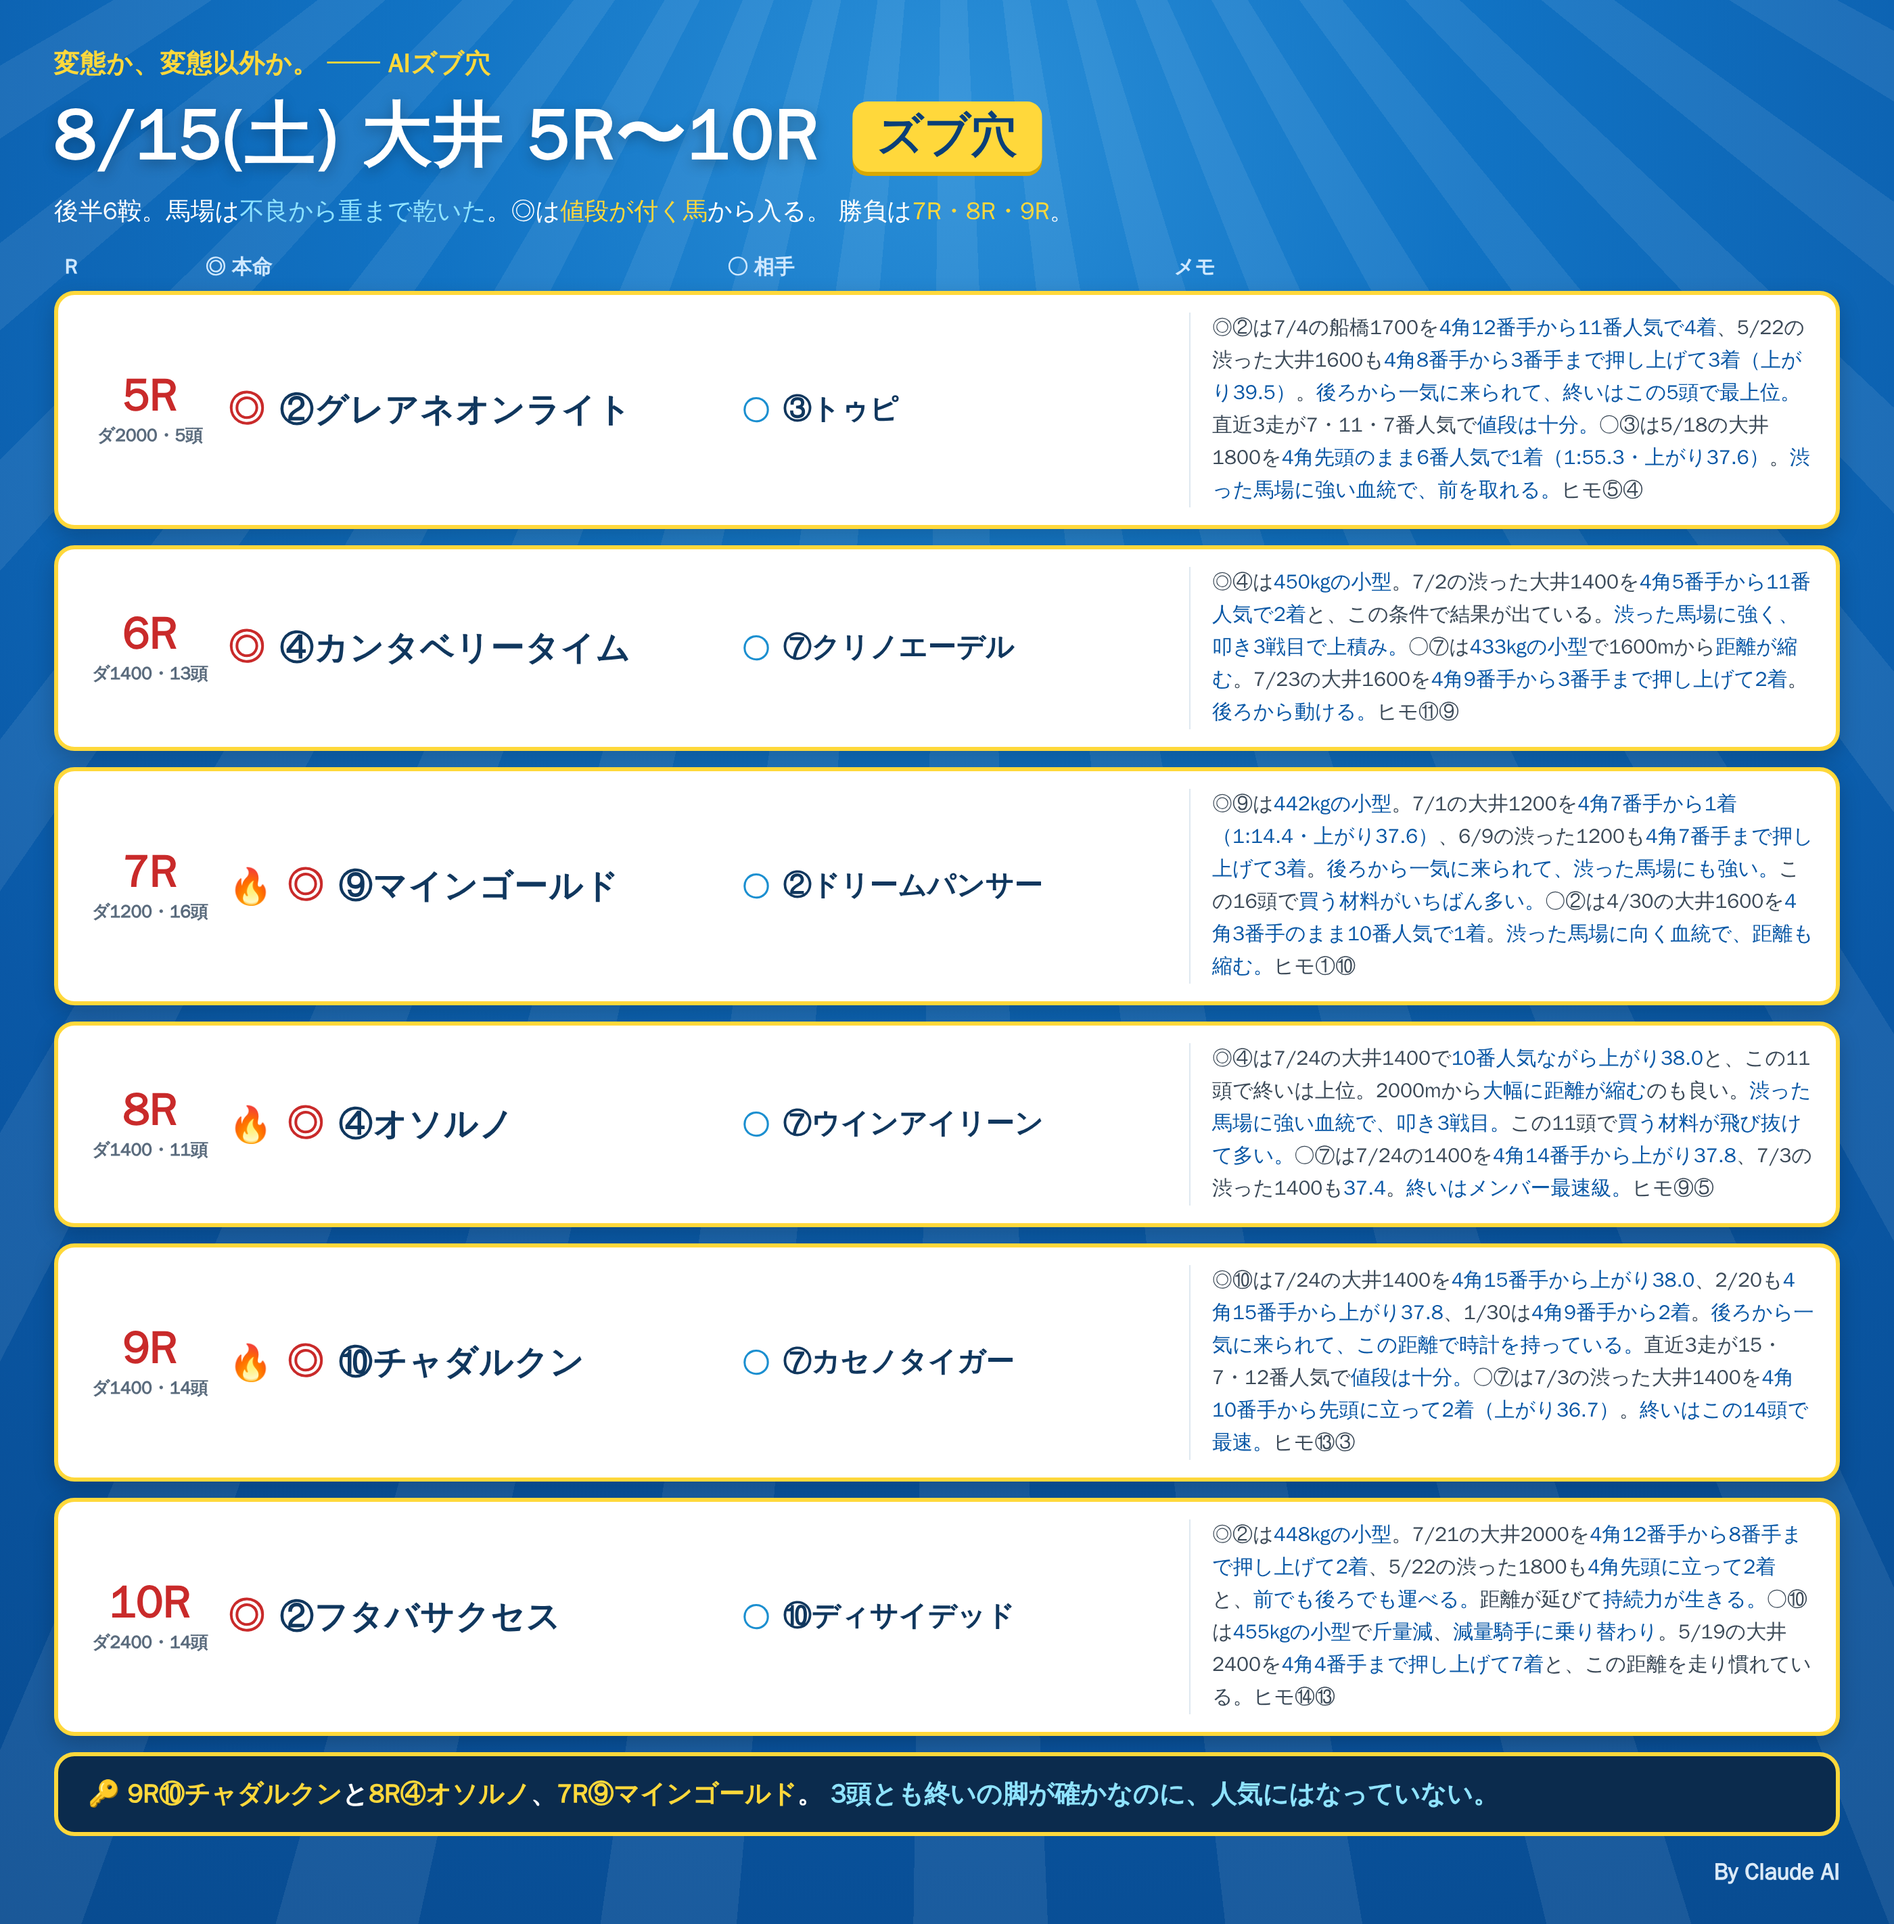
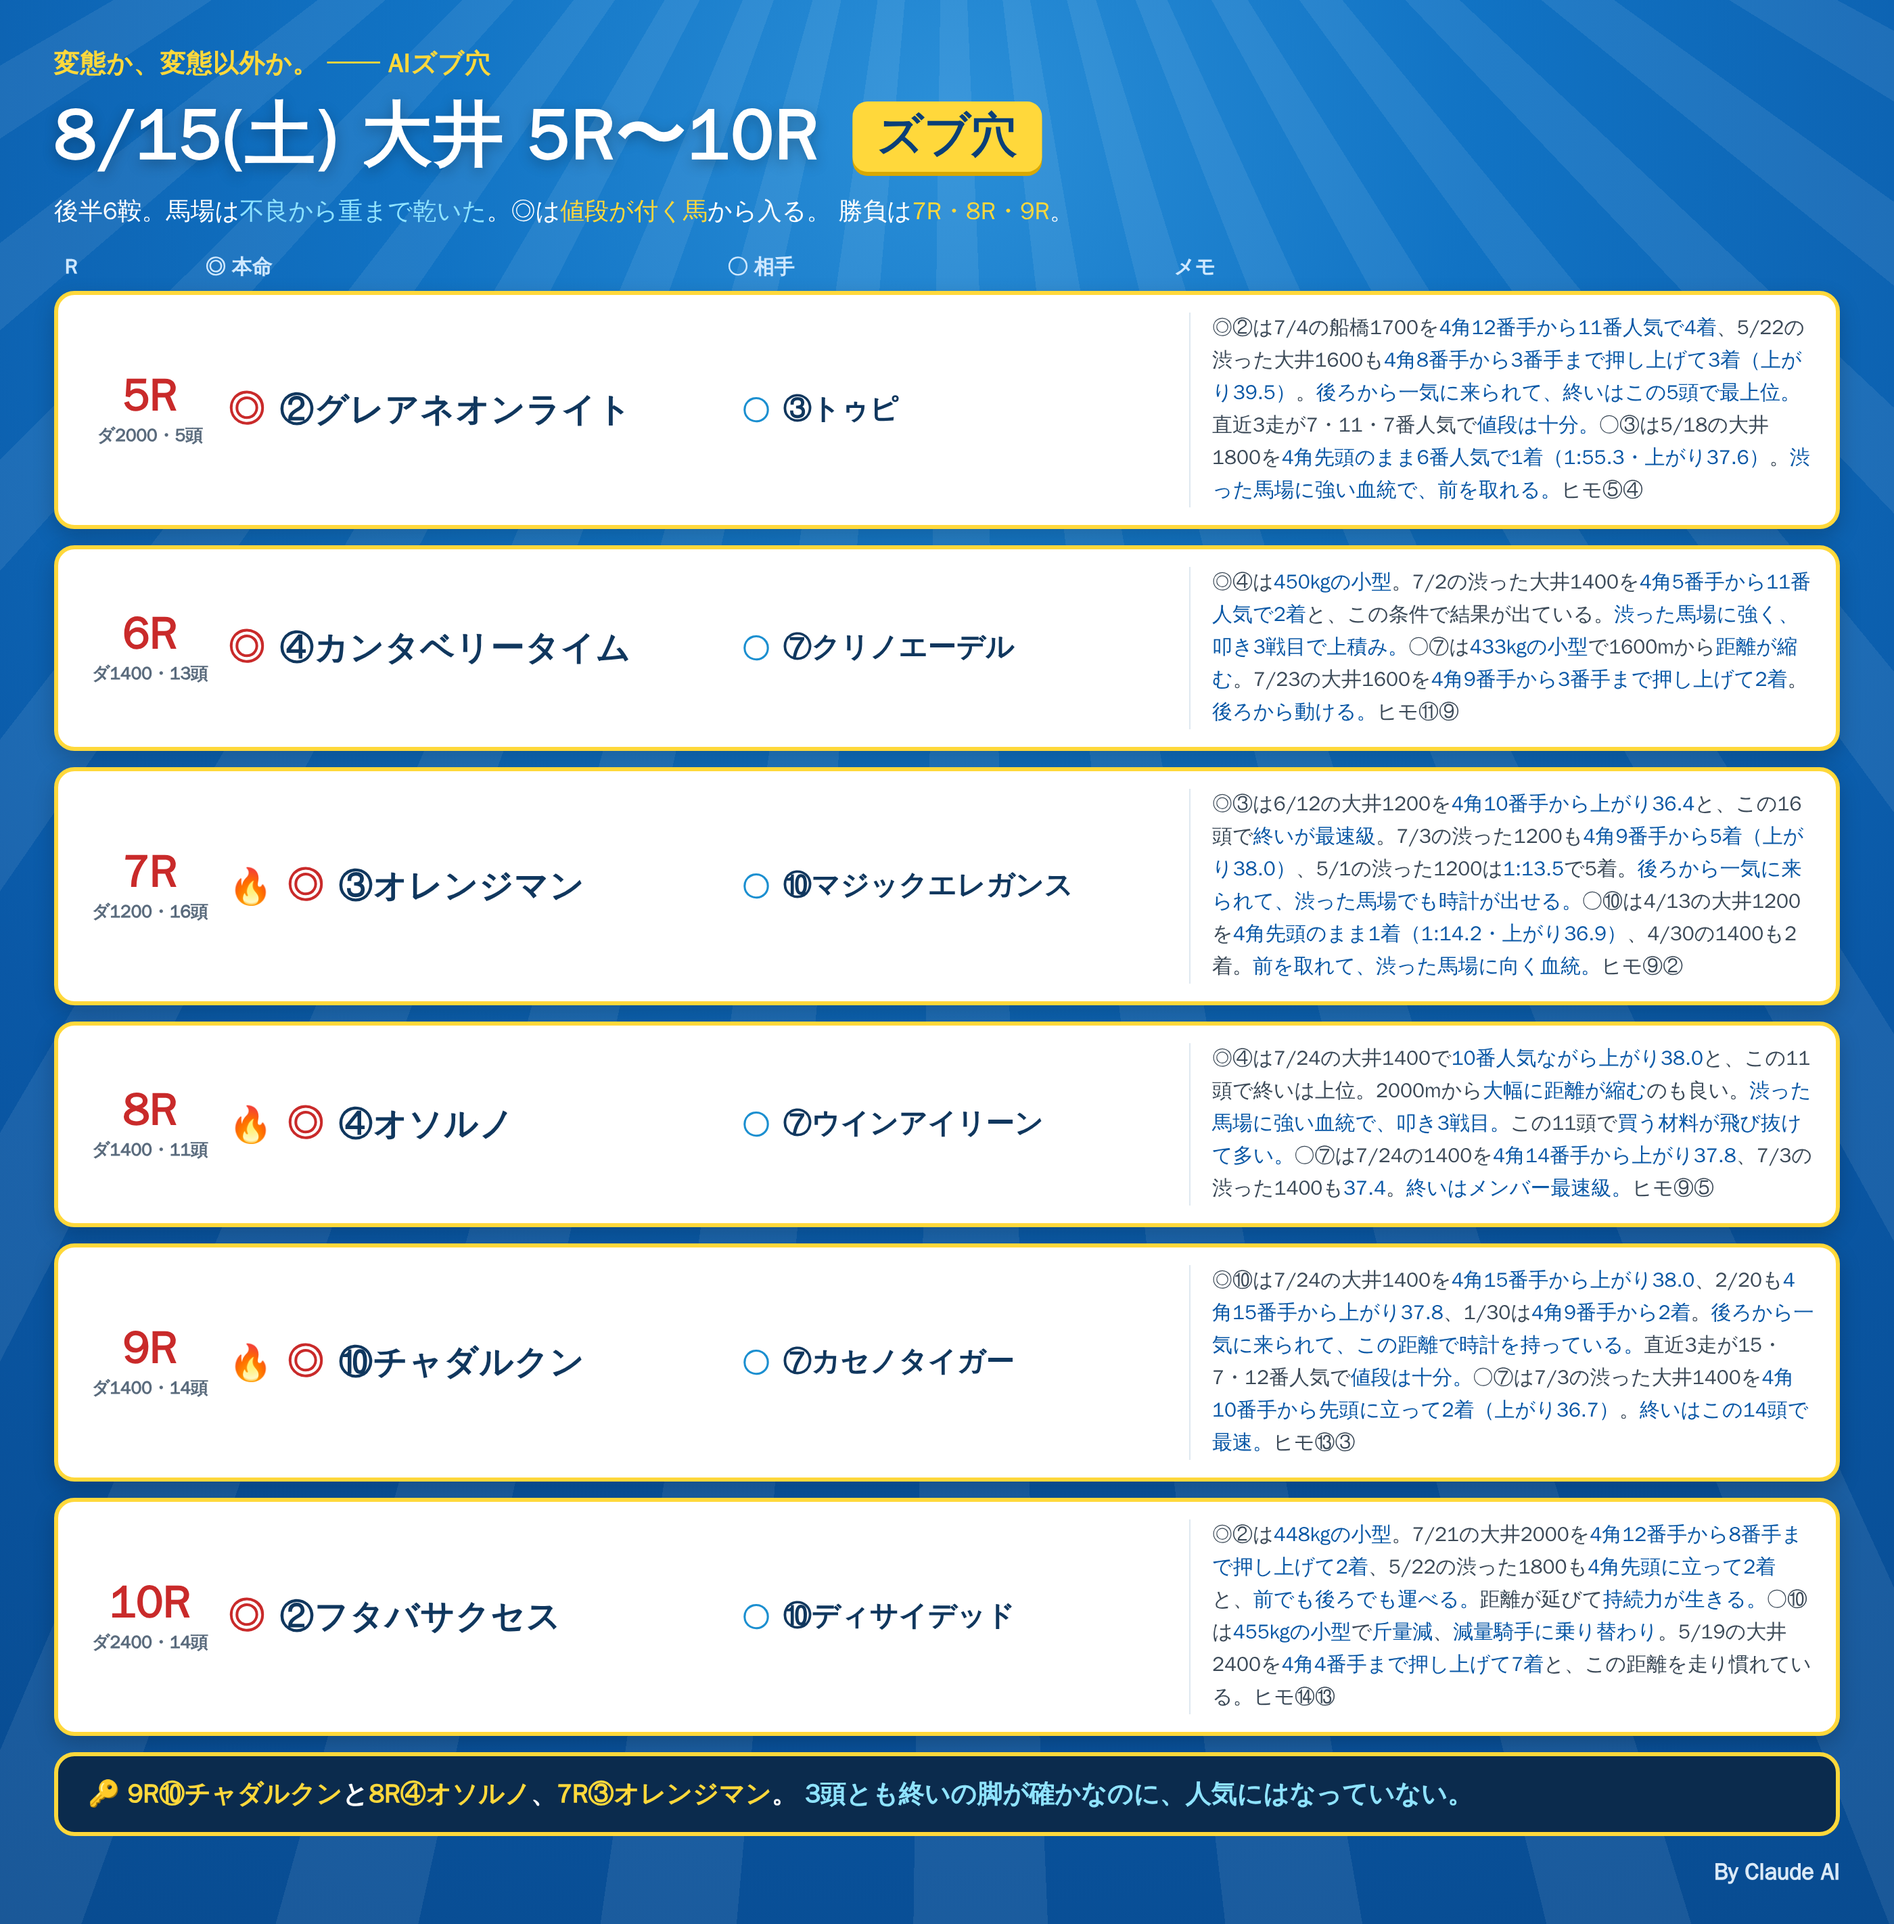
8/15大井 7R 印変更（◎③オレンジマン ○⑩マジックエレガンス）

diff --git a/notes/live/2026-08-15/oi_5_10.html b/notes/live/2026-08-15/oi_5_10.html
@@ -66,9 +66,9 @@
 
   <div class="row">
     <div class="rN"><div class="n">7R</div><div class="d">ダ1200・16頭</div></div>
-    <div class="hm"><span class="fire">🔥</span><span class="mk">◎</span><span class="nm">⑨マインゴールド</span></div>
-    <div class="at"><span class="mk2">○</span><span class="nm2">②ドリームパンサー</span></div>
-    <div class="memo">◎⑨は<b>442kgの小型</b>。7/1の大井1200を<b>4角7番手から1着（1:14.4・上がり37.6）</b>、6/9の渋った1200も<b>4角7番手まで押し上げて3着</b>。<b>後ろから一気に来られて、渋った馬場にも強い。</b>この16頭で<b>買う材料がいちばん多い。</b>○②は4/30の大井1600を<b>4角3番手のまま10番人気で1着</b>。<b>渋った馬場に向く血統で、距離も縮む。</b>ヒモ①⑩</div>
+    <div class="hm"><span class="fire">🔥</span><span class="mk">◎</span><span class="nm">③オレンジマン</span></div>
+    <div class="at"><span class="mk2">○</span><span class="nm2">⑩マジックエレガンス</span></div>
+    <div class="memo">◎③は6/12の大井1200を<b>4角10番手から上がり36.4</b>と、この16頭で<b>終いが最速級</b>。7/3の渋った1200も<b>4角9番手から5着（上がり38.0）</b>、5/1の渋った1200は<b>1:13.5</b>で5着。<b>後ろから一気に来られて、渋った馬場でも時計が出せる。</b>○⑩は4/13の大井1200を<b>4角先頭のまま1着（1:14.2・上がり36.9）</b>、4/30の1400も2着。<b>前を取れて、渋った馬場に向く血統。</b>ヒモ⑨②</div>
   </div>
 
   <div class="row">
@@ -92,7 +92,7 @@
     <div class="memo">◎②は<b>448kgの小型</b>。7/21の大井2000を<b>4角12番手から8番手まで押し上げて2着</b>、5/22の渋った1800も<b>4角先頭に立って2着</b>と、<b>前でも後ろでも運べる。</b>距離が延びて<b>持続力が生きる。</b>○⑩は<b>455kgの小型</b>で<b>斤量減</b>、<b>減量騎手に乗り替わり</b>。5/19の大井2400を<b>4角4番手まで押し上げて7着</b>と、この距離を走り慣れている。ヒモ⑭⑬</div>
   </div>
 
-  <div class="foot">🔑 <span class="y">9R⑩チャダルクン</span>と<span class="y">8R④オソルノ</span>、<span class="y">7R⑨マインゴールド</span>。
+  <div class="foot">🔑 <span class="y">9R⑩チャダルクン</span>と<span class="y">8R④オソルノ</span>、<span class="y">7R③オレンジマン</span>。
   <span class="c">3頭とも終いの脚が確かなのに、人気にはなっていない。</span></div>
   <div class="sig">By Claude AI</div>
 </div></div>
